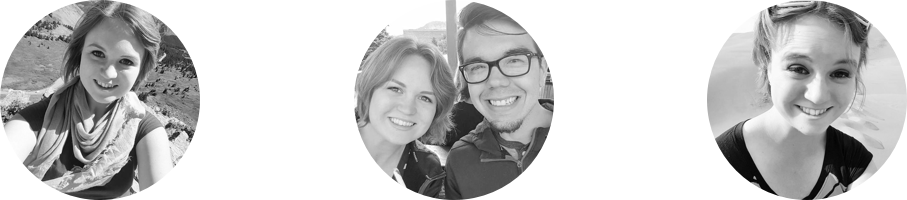
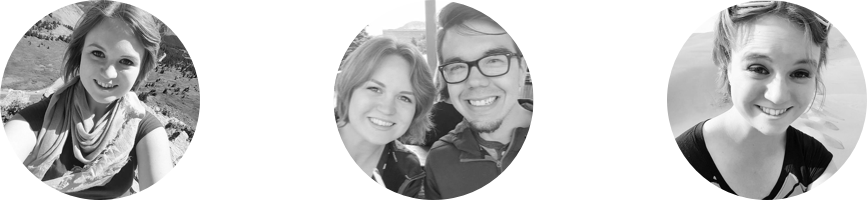
revising my about section

diff --git a/about.html b/about.html
@@ -34,14 +34,15 @@
           <div class = "hello column full">
             <h1>Hello, Nice to Meet You!</h1>
           </div>
-          <p>I’m originally from Wisconsin but the mountains were calling me and I could not ignore! Now I’m living in Denver. Im an outdoor enthusiast who loves to travel and explore new places! I cannot consider a new place “conquered” until I’ve tried the local flavor-particularly pizza and ice cream! <br><br>
-          People are more important to me than anything and they are the reason I design. I design to make users lives better and to add value to their days.  I studied art for 6 weeks in Italy during college and that began my passion for making things beautiful. I also care about functionality too which is why I like simple designs and minimalism has greatly impacted the way I view space. 
+          <p>My number one passion is people. People are the reason I chose to be designer. But why? I could have become a doctor, a lawyer, a missionary, a customer service representative at a company (and in fact I was) so why design? It’s simple. I love it. I love talking with people and discovering how they think and feel and why, then  then taking that information and creating something functional yet beautiful with it. I design with the user in mind because without the user what would be the point?<br><br>
+          People are fascinating and they’re worth getting to know. I love that being a UX/UI designer gives me a daily glipse into how people think, what they care about, and why. <br><br>
+          When I’m not researching, meeting with people, or designing user-friendly interfaces, you can find me hiking in the beautiful Colorado mountains with my husband of 4 years. Or you may find me trying out the local flavor since I’m a lowkey foodie. Or I may be planning out my next trip since traveling is a big passion of mine too. No matter where you find me though, you’ll likely find me happy because life is beautiful and I have much to be thankful for. 
           </p>
         </div>
         
        <div class ="contact column full background1">
        <div class ="salutation column full">
-         <p>View My Qualifications</p> 
+         <p>Check Out My Technical Skills</p> 
            <a href= "images/Jacqueline's_Resume.pdf"><button>Resume</button></a>
        </div>
        <div class ="footer column full">

diff --git a/css/about.css b/css/about.css
@@ -33,6 +33,12 @@
 .aboutphotos{
     padding-top:4%;
     padding-bottom: 2%;
+    padding-left:10%;
+    padding-right:10%;
+    background-image: url(../images/work_rectangle.png);
+    background-repeat: no-repeat;
+    background-size: auto;
+    background-size: 100% 100%;
 }
 
 p{
@@ -40,12 +46,12 @@ p{
     font-size:30px;
 }
 
-@media (max-width: 1168px){
-    
-    .aboutphotos img{
+.aboutphotos img{
         width:75%;
         height:auto;
     }
+
+@media (max-width: 1168px){
     
     p{
         font-size:25px;

diff --git a/index.html b/index.html
@@ -92,7 +92,7 @@
   </div>
   <div class ="contact column full background1">
     <div class ="salutation column full">
-      <p>Let's Get Acquainted!</p> 
+      <p>Ready to Introduce Yourself?</p> 
       <a href= "https://goo.gl/forms/hlNqZcWLaUhsj2ku1"><button>Contact Me</button></a>
     </div>
     <div class ="footer column full">
